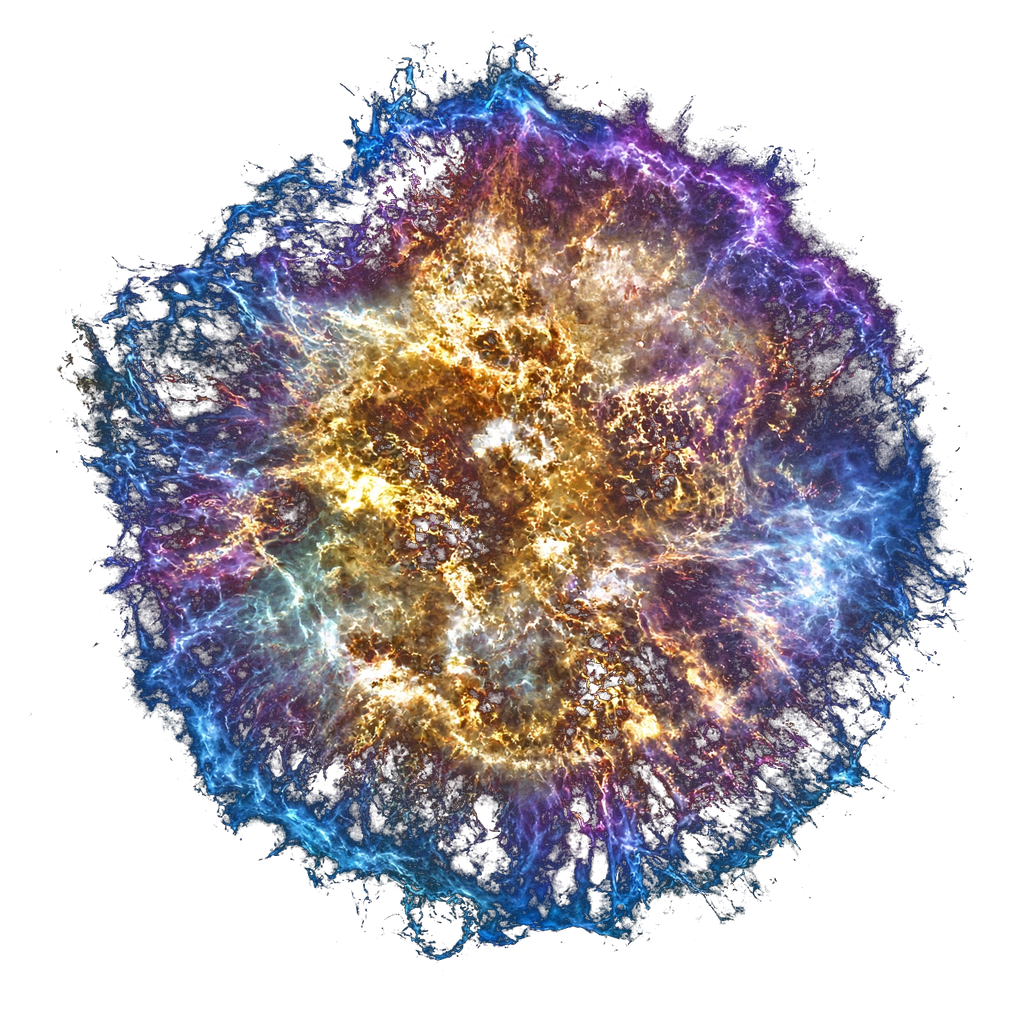
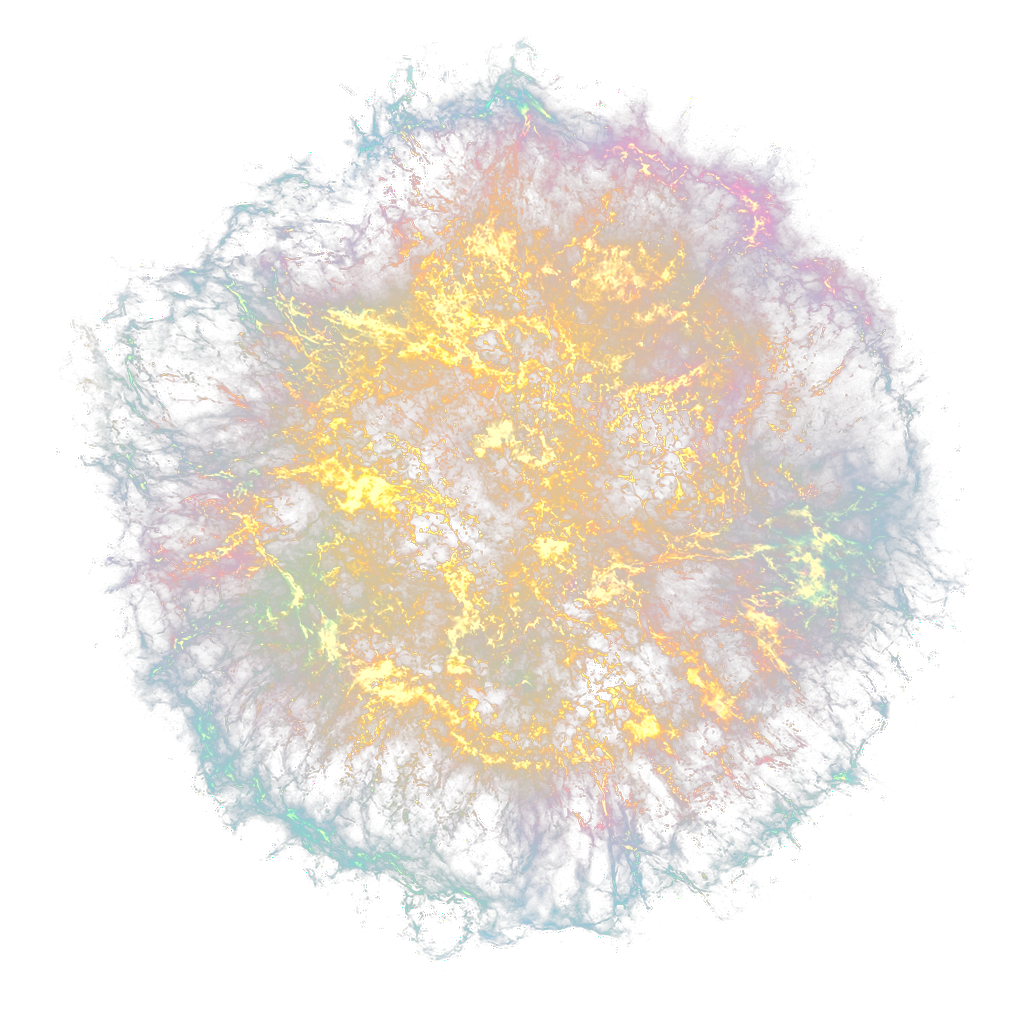
Hoshi as a pentagon around the worlds; remnant no longer black
Constellation stars sit in front, spaced, and bright. No auto-draw.
Nebula punches out crushed black and reads warm. Planets keep a rim.

diff --git a/src/components/atelier/canvas.tsx b/src/components/atelier/canvas.tsx
@@ -76,7 +76,7 @@ export function AtelierCanvas() {
       powerPreference: "high-performance",
     });
     renderer.setPixelRatio(Math.min(window.devicePixelRatio, dprCap));
-    renderer.setClearColor(0x000000, 0);
+    renderer.setClearColor(0x08070a, 1);
     renderer.outputColorSpace = THREE.SRGBColorSpace;
     if (!isTouch) {
       renderer.shadowMap.enabled = true;
@@ -84,7 +84,7 @@ export function AtelierCanvas() {
     }
 
     const scene = new THREE.Scene();
-    scene.fog = new THREE.FogExp2(0x050506, 0.012);
+    scene.fog = new THREE.FogExp2(0x08070a, 0.01);
 
     const camera = new THREE.PerspectiveCamera(42, 1, 0.1, 160);
     camera.position.set(0, 0, 0.9);
@@ -124,33 +124,45 @@ export function AtelierCanvas() {
 
     const nova = new THREE.Group();
     const remnantMat = new THREE.SpriteMaterial({
-      color: 0xffffff,
+      color: 0xffe8c8,
       transparent: true,
       depthWrite: false,
+      blending: THREE.AdditiveBlending,
       opacity: 0,
     });
     const remnant = new THREE.Sprite(remnantMat);
-    remnant.scale.set(3.45, 3.45, 1);
+    remnant.scale.set(3.55, 3.55, 1);
     const haloMat = new THREE.SpriteMaterial({
-      color: 0xffffff,
+      color: 0xffd9a8,
       transparent: true,
       depthWrite: false,
       blending: THREE.AdditiveBlending,
       opacity: 0,
     });
     const halo = new THREE.Sprite(haloMat);
-    halo.scale.set(5.1, 5.1, 1);
+    halo.scale.set(5.4, 5.4, 1);
     const core = new THREE.Sprite(
       new THREE.SpriteMaterial({
         map: starTex,
-        color: 0xfff6e8,
+        color: 0xfff1d6,
         transparent: true,
         depthWrite: false,
         blending: THREE.AdditiveBlending,
-        opacity: 0.95,
+        opacity: 0.98,
       }),
     );
-    core.scale.set(0.55, 0.55, 1);
+    core.scale.set(0.72, 0.72, 1);
+    const ember = new THREE.Sprite(
+      new THREE.SpriteMaterial({
+        map: starTex,
+        color: 0xffc070,
+        transparent: true,
+        depthWrite: false,
+        blending: THREE.AdditiveBlending,
+        opacity: 0.9,
+      }),
+    );
+    ember.scale.set(2.15, 2.15, 1);
     const lensMat = new THREE.ShaderMaterial({
       transparent: true,
       depthWrite: false,
@@ -172,16 +184,16 @@ export function AtelierCanvas() {
           float ring = smoothstep(0.055, 0.0, abs(r - 0.73)) * (0.82 + 0.18 * sin(uTime * 0.65));
           float inner = smoothstep(0.09, 0.0, abs(r - 0.56)) * 0.4;
           float glow = exp(-r * 2.35) * 0.2;
-          vec3 col = vec3(0.7, 0.86, 1.0) * ring
-                   + vec3(1.0, 0.76, 0.5) * inner
-                   + vec3(0.92, 0.94, 1.0) * glow;
+          vec3 col = vec3(1.0, 0.86, 0.58) * ring
+                   + vec3(1.0, 0.72, 0.38) * inner
+                   + vec3(1.0, 0.94, 0.82) * glow;
           float a = ring * 0.92 + inner * 0.45 + glow;
           gl_FragColor = vec4(col, a);
         }
       `,
     });
     const lens = new THREE.Mesh(new THREE.CircleGeometry(1.9, 72), lensMat);
-    nova.add(halo, remnant, core, lens);
+    nova.add(halo, remnant, ember, core, lens);
     scene.add(nova);
 
     const dustCount = isTouch ? 160 : 380;
@@ -203,13 +215,13 @@ export function AtelierCanvas() {
       tex.colorSpace = THREE.SRGBColorSpace;
       tex.anisotropy = 8;
       remnantMat.map = tex;
-      remnantMat.opacity = 1;
+      remnantMat.opacity = 0.92;
       remnantMat.needsUpdate = true;
     });
     loader.load("/cosmos/halo.png", (tex) => {
       tex.colorSpace = THREE.SRGBColorSpace;
       haloMat.map = tex;
-      haloMat.opacity = 0.55;
+      haloMat.opacity = 0.42;
       haloMat.needsUpdate = true;
     });
 
@@ -265,6 +277,35 @@ export function AtelierCanvas() {
     scene.add(meteor);
     const meteorState = { t: 5, active: 0, ax: 0, ay: 0, az: 0, bx: 0, by: 0, bz: 0 };
 
+    function atmosMat(color: number, op: number) {
+      return new THREE.ShaderMaterial({
+        uniforms: {
+          uColor: { value: new THREE.Color(color) },
+          uOp: { value: op },
+        },
+        transparent: true,
+        depthWrite: false,
+        blending: THREE.AdditiveBlending,
+        side: THREE.BackSide,
+        vertexShader: `
+          varying float vF;
+          void main() {
+            vec3 n = normalize(normalMatrix * normal);
+            vec3 v = normalize(-(modelViewMatrix * vec4(position, 1.0)).xyz);
+            vF = pow(1.0 - abs(dot(n, v)), 2.7);
+            gl_Position = projectionMatrix * modelViewMatrix * vec4(position, 1.0);
+          }
+        `,
+        fragmentShader: `
+          uniform vec3 uColor;
+          uniform float uOp;
+          varying float vF;
+          void main() {
+            gl_FragColor = vec4(uColor, vF * uOp);
+          }
+        `,
+      });
+    }
     const frames: THREE.Group[] = [];
     const planetBodies: THREE.Mesh[] = [];
     const sphereGeoCache = new Map<number, THREE.SphereGeometry>();
@@ -280,7 +321,7 @@ export function AtelierCanvas() {
       g.rotation.z = look.tilt;
       let bodyGeo = sphereGeoCache.get(look.radius);
       if (!bodyGeo) {
-        bodyGeo = new THREE.SphereGeometry(look.radius, 48, 32);
+        bodyGeo = new THREE.SphereGeometry(look.radius, 64, 48);
         sphereGeoCache.set(look.radius, bodyGeo);
       }
       const body = new THREE.Mesh(
@@ -306,15 +347,8 @@ export function AtelierCanvas() {
       hit.userData.slug = work.slug;
       hit.userData.title = work.title;
       const atmos = new THREE.Mesh(
-        new THREE.SphereGeometry(look.radius * 1.12, 32, 24),
-        new THREE.MeshBasicMaterial({
-          color: look.atmos,
-          transparent: true,
-          opacity: 0.22,
-          side: THREE.BackSide,
-          depthWrite: false,
-          blending: THREE.AdditiveBlending,
-        }),
+        new THREE.SphereGeometry(look.radius * 1.14, 40, 28),
+        atmosMat(look.atmos, 0.55),
       );
       g.add(body, atmos, hit);
       if (look.rings) {
@@ -378,15 +412,8 @@ export function AtelierCanvas() {
       if (d.atmos) {
         g.add(
           new THREE.Mesh(
-            new THREE.SphereGeometry(d.radius * 1.14, 24, 16),
-            new THREE.MeshBasicMaterial({
-              color: d.atmos,
-              transparent: true,
-              opacity: 0.2,
-              side: THREE.BackSide,
-              depthWrite: false,
-              blending: THREE.AdditiveBlending,
-            }),
+            new THREE.SphereGeometry(d.radius * 1.16, 28, 20),
+            atmosMat(d.atmos, 0.5),
           ),
         );
       }
@@ -505,15 +532,17 @@ export function AtelierCanvas() {
       const spr = new THREE.Sprite(
         new THREE.SpriteMaterial({
           map: starTex,
-          color: 0xffffff,
+          color: 0xfff4dc,
           transparent: true,
+          depthTest: false,
           depthWrite: false,
           blending: THREE.AdditiveBlending,
-          opacity: 0.95,
+          opacity: 1,
         }),
       );
       spr.position.copy(pos);
-      spr.scale.setScalar(0.36);
+      spr.scale.setScalar(0.55);
+      spr.renderOrder = 4;
       spr.userData.id = n.id;
       scene.add(spr);
       asterSprites.push(spr);
@@ -535,11 +564,13 @@ export function AtelierCanvas() {
     const asterLines = new THREE.LineSegments(
       asterLineGeo,
       new THREE.LineBasicMaterial({
-        color: 0xe8f0ff,
+        color: 0xfff0d4,
         transparent: true,
-        opacity: 0.85,
+        opacity: 0.92,
+        depthTest: false,
       }),
     );
+    asterLines.renderOrder = 3;
     scene.add(asterLines);
     function rebuildAsterLines() {
       let i = 0;
@@ -623,14 +654,13 @@ export function AtelierCanvas() {
     }
 
     let lastStrike = 0;
-    let hoshiQueued = false;
 
     let composer: EffectComposer | null = null;
     let bloomPass: UnrealBloomPass | null = null;
     if (useBloom) {
       composer = new EffectComposer(renderer);
       composer.addPass(new RenderPass(scene, camera));
-      bloomPass = new UnrealBloomPass(new THREE.Vector2(1, 1), 0.28, 0.5, 0.28);
+      bloomPass = new UnrealBloomPass(new THREE.Vector2(1, 1), 0.36, 0.42, 0.22);
       composer.addPass(bloomPass);
       composer.addPass(new OutputPass());
     }
@@ -824,13 +854,19 @@ export function AtelierCanvas() {
       lensMat.uniforms.uTime.value = t;
       dust.mesh.rotation.y = t * 0.018 * motion;
       dust.mesh.rotation.z = Math.sin(t * 0.11) * 0.05;
+      far.mesh.rotation.y = t * 0.003 * motion;
+      mid.mesh.rotation.y = t * 0.007 * motion;
+      milky.mesh.rotation.y = t * 0.004 * motion;
+      const pulseCore = 0.68 + Math.sin(t * 0.7) * 0.07 + pulse * 0.12;
+      core.scale.setScalar(pulseCore);
+      ember.scale.setScalar(2.08 + Math.sin(t * 0.42) * 0.14);
 
       const ambT = part === "night" ? 0.016 : part === "morning" ? 0.03 : part === "dusk" ? 0.024 : 0.028;
       const keyT = part === "night" ? 0.22 : part === "morning" ? 0.48 : part === "dusk" ? 0.36 : 0.42;
       ambient.intensity += (ambT - ambient.intensity) * 0.04;
       key.intensity += (keyT - key.intensity) * 0.04;
-      key.color.setHex(part === "night" ? 0x8aa6cc : part === "morning" ? 0xffd4a8 : part === "dusk" ? 0xffb078 : 0xffe8c8);
-      sun.color.setHex(part === "night" ? 0xc8d8ff : part === "dusk" ? 0xffc090 : 0xfff1d0);
+      sun.color.setHex(part === "night" ? 0xffe8d2 : part === "dusk" ? 0xffc090 : 0xfff1d0);
+      key.color.setHex(part === "night" ? 0xc8b8a0 : part === "morning" ? 0xffd4a8 : part === "dusk" ? 0xffb078 : 0xffe8c8);
 
       if (state.entered && introT0 === 0) introT0 = performance.now();
       const introK = !state.entered
@@ -839,28 +875,6 @@ export function AtelierCanvas() {
           ? 1
           : Math.min(1, (performance.now() - introT0) / 5200);
       const introEase = 1 - Math.pow(1 - introK, 3);
-
-      if (!hoshiQueued && state.entered && !state.introPlaying) {
-        hoshiQueued = true;
-        const fig = ASTER_FIGURES.find((f) => f.id === "hoshi");
-        if (fig && !state.asterFound.includes("hoshi")) {
-          if (reduced || state.reducedMotion) {
-            fig.edges.forEach(([a, b]) => asterHave.add(edgeKey(a, b)));
-            rebuildAsterLines();
-            markFound(fig, state);
-          } else {
-            fig.edges.forEach(([a, b], i) => {
-              window.setTimeout(() => {
-                asterHave.add(edgeKey(a, b));
-                rebuildAsterLines();
-                sound.hover();
-                pulse = Math.max(pulse, 0.22);
-                if (i === fig.edges.length - 1) markFound(fig, useAtelier.getState());
-              }, 480 + i * 340);
-            });
-          }
-        }
-      }
 
       if (playing) {
         fov.v += (50 - fov.v) * 0.05;
@@ -1106,9 +1120,9 @@ export function AtelierCanvas() {
         const id = spr.userData.id as string;
         const on = id === asterPick;
         const done = asterDone.has(id);
-        const s = on ? 0.5 + Math.sin(t * 6) * 0.07 : done ? 0.4 : 0.36;
+        const s = on ? 0.68 + Math.sin(t * 6) * 0.08 : done ? 0.58 : 0.52;
         spr.scale.setScalar(s);
-        (spr.material as THREE.SpriteMaterial).color.setHex(done ? 0xffd78a : on ? 0xffe6b0 : 0xffffff);
+        (spr.material as THREE.SpriteMaterial).color.setHex(done ? 0xffd78a : on ? 0xffe6b0 : 0xfff4dc);
       });
       if (state.directorOn && frameN % 3 === 0) state.setCam(camera.position.z, camera.fov);
 

diff --git a/src/lib/constellations.ts b/src/lib/constellations.ts
@@ -8,20 +8,31 @@ export type AsterFigure = {
   edges: [string, string][];
 };
 
+const R = 3.12;
+const SQUASH = 0.78;
+const HOSHI_Z = 0.92;
+const ROT = Math.PI / 5;
+
+const hoshi: AsterNode[] = Array.from({ length: 5 }, (_, i) => {
+  const a = -Math.PI / 2 + ROT + (i * Math.PI * 2) / 5;
+  return {
+    id: `h${i}`,
+    x: Math.cos(a) * R,
+    y: Math.sin(a) * R * SQUASH,
+    z: HOSHI_Z,
+  };
+});
+
 export const ASTER_NODES: AsterNode[] = [
-  { id: "c0", x: -1.55, y: 1.72, z: 3.35 },
-  { id: "c1", x: -0.72, y: 1.38, z: 3.42 },
-  { id: "c2", x: 0.05, y: 1.78, z: 3.32 },
-  { id: "c3", x: 0.78, y: 1.36, z: 3.4 },
-  { id: "c4", x: 1.58, y: 1.7, z: 3.34 },
-  { id: "b0", x: -0.7, y: -1.68, z: 3.38 },
-  { id: "b1", x: 0.05, y: -1.58, z: 3.32 },
-  { id: "b2", x: 0.82, y: -1.7, z: 3.38 },
-  { id: "h0", x: -1.58, y: 0.22, z: 3.45 },
-  { id: "h1", x: -1.88, y: -0.18, z: 3.5 },
-  { id: "h2", x: -1.68, y: -0.62, z: 3.46 },
-  { id: "h3", x: -1.22, y: -0.64, z: 3.4 },
-  { id: "h4", x: -1.08, y: -0.16, z: 3.38 },
+  { id: "c0", x: -1.55, y: 2.18, z: 1.55 },
+  { id: "c1", x: -0.78, y: 1.82, z: 1.62 },
+  { id: "c2", x: 0, y: 2.22, z: 1.52 },
+  { id: "c3", x: 0.78, y: 1.8, z: 1.6 },
+  { id: "c4", x: 1.55, y: 2.16, z: 1.55 },
+  { id: "b0", x: -1.05, y: -2.18, z: 1.58 },
+  { id: "b1", x: 0, y: -2.05, z: 1.52 },
+  { id: "b2", x: 1.05, y: -2.18, z: 1.58 },
+  ...hoshi,
 ];
 
 export const ASTER_FIGURES: AsterFigure[] = [
@@ -51,7 +62,7 @@ export const ASTER_FIGURES: AsterFigure[] = [
     id: "hoshi",
     name: "Hoshi",
     kicker: "The star",
-    nodeIds: ["h0", "h1", "h2", "h3", "h4"],
+    nodeIds: hoshi.map((n) => n.id),
     edges: [
       ["h0", "h1"],
       ["h1", "h2"],

diff --git a/src/components/atelier/atmosphere.tsx b/src/components/atelier/atmosphere.tsx
@@ -12,7 +12,7 @@ const VEIL: Record<string, string> = {
 };
 
 const CEB: Record<string, string> = {
-  night: "radial-gradient(ellipse 80% 70% at 50% 40%, rgba(40,70,140,0.16), transparent 70%)",
+  night: "radial-gradient(ellipse 80% 70% at 50% 40%, rgba(40,28,16,0.18), transparent 70%)",
   morning: "radial-gradient(ellipse 80% 70% at 50% 18%, rgba(255,200,140,0.14), transparent 68%)",
   day: "radial-gradient(ellipse 70% 50% at 50% 0%, rgba(255,244,220,0.08), transparent 60%)",
   dusk: "radial-gradient(ellipse 80% 70% at 50% 70%, rgba(255,120,60,0.14), transparent 68%)",

diff --git a/src/components/atelier/aster-hud.tsx b/src/components/atelier/aster-hud.tsx
@@ -24,7 +24,7 @@ export function AsterHud() {
         </>
       ) : (
         <p className="mt-2 text-[10px] leading-relaxed tracking-wide text-bone/70">
-          Tap a bright star, then another. Lines stay. A name when the figure closes.
+          Tap a bright star, then another. Hoshi is the pentagon around the worlds.
         </p>
       )}
     </div>

diff --git a/src/styles.css b/src/styles.css
@@ -72,8 +72,8 @@ html.cursor-hide * {
 }
 
 html[data-tod="night"] {
-  --color-void: #070708;
-  --color-fog: #121214;
+  --color-void: #08070a;
+  --color-fog: #12110f;
 }
 html[data-tod="dusk"] {
   --color-void: #0c0b0a;
